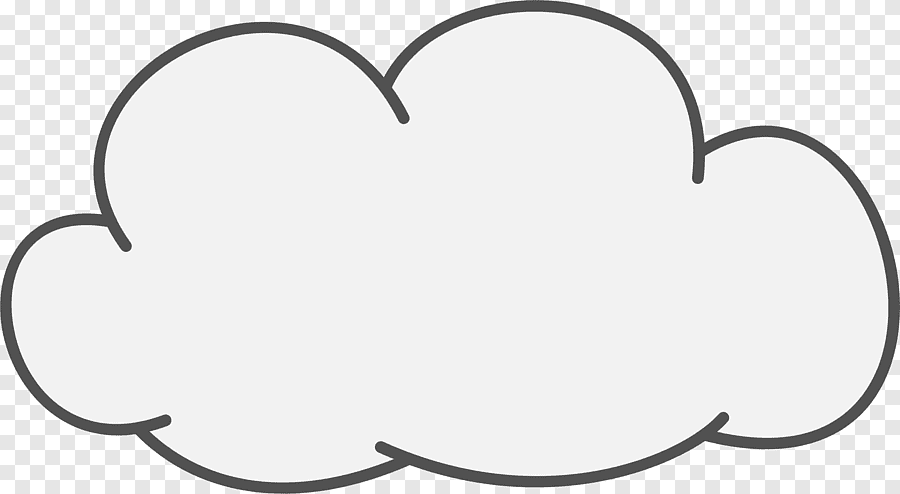
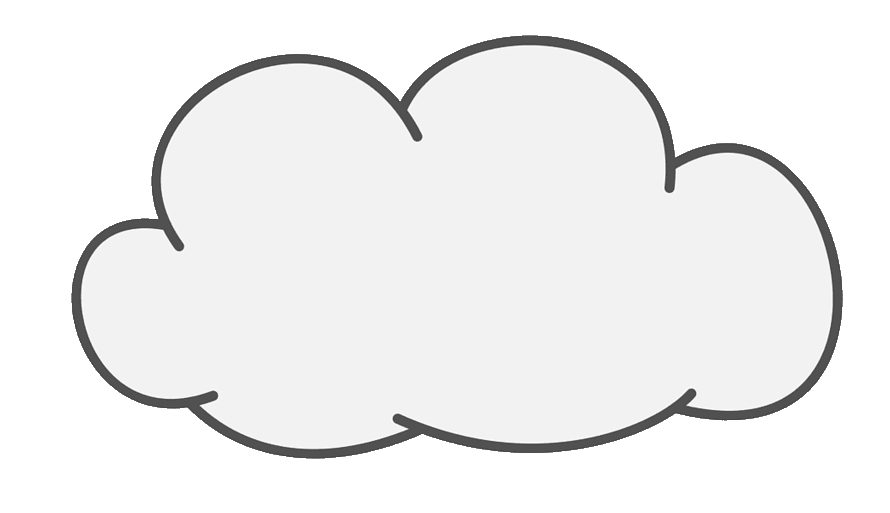
mquery less than 650 and restyling of header

Changed region(s): [[0.0, 0.0, 1.0, 1.0]]

diff --git a/src/components/header.js b/src/components/header.js
@@ -5,6 +5,9 @@ import styled from "styled-components";
 import { motion } from "framer-motion";
 import { titleAnim, searchBarAnim } from "../animations";
 import BirdPicker from "./birdPicker";
+import Cloud from "../images/cloud.png";
+import Cloud2 from "../images/cloud2.png";
+import HoverImage from "react-hover-image";
 
 const Header = ({ dayornight }) => {
   const dispatch = useDispatch();
@@ -50,6 +53,9 @@ const Header = ({ dayornight }) => {
             }}
           >
             Search
+            <CloudContainer>
+              <img src={Cloud} />
+            </CloudContainer>
           </motion.button>
         </motion.form>
       </HeaderContainer>
@@ -79,6 +85,9 @@ const HeaderContainer = styled(motion.div)`
     width: 5rem;
     border-top-right-radius: 0.8rem;
     border-bottom-right-radius: 0.8rem;
+    &:hover {
+      cursor: pointer;
+    }
     &:focus {
       outline: none;
     }
@@ -103,17 +112,36 @@ const HeaderContainer = styled(motion.div)`
       display: flex;
       flex-direction: column;
       align-items: center;
+      z-index: 5;
+      position: relative;
     }
     button {
       display: block;
       border-radius: 0.8rem;
-      margin: 0.5rem;
+      margin: 0.8rem;
+      letter-spacing: 0.15rem;
+      padding: 0.2rem;
+      margin-top: 1.7rem;
     }
     input {
       border-radius: 0.8rem;
       font-size: 0.7rem;
       text-align: center;
       width: 20rem;
+    }
+  }
+
+  @media screen and (max-width: 415px) {
+    input {
+      border-radius: 0.8rem;
+      font-size: 0.7rem;
+      text-align: center;
+      width: 70vw;
+    }
+
+    h1 {
+      font-size: 1.5rem;
+      margin: 1rem;
     }
   }
 `;
@@ -125,6 +153,51 @@ const TitleContainer = styled(motion.div)`
     .lastTitleWord {
       display: block;
     }
+  }
+
+  @media screen and (max-width: 500px) {
+    width: 20rem;
+  }
+
+  @media screen and (max-width: 500px) {
+    width: 15rem;
+  }
+`;
+
+const CloudContainer = styled(motion.div)`
+  display: none;
+
+  @media screen and (max-width: 650px) {
+    display: block;
+    position: absolute;
+    z-index: -1;
+    top: 2.3rem;
+    left: 6rem;
+    img {
+      width: 9rem;
+      height: 4rem;
+    }
+  }
+
+  @media screen and (max-width: 415px) {
+    top: 2.5rem;
+    left: 25%;
+  }
+
+  @media screen and (max-width: 375px) {
+    left: 22%;
+  }
+
+  @media screen and (max-width: 328px) {
+    left: 20%;
+  }
+
+  @media screen and (max-width: 290px) {
+    left: 15%;
+  }
+
+  @media screen and (max-width: 262px) {
+    left: 12%;
   }
 `;
 

diff --git a/src/components/weather.js b/src/components/weather.js
@@ -14,9 +14,12 @@ const Weather = ({
 }) => {
   return (
     <WeatherContainer>
-      <h2>
-        The current weather in {location} - {country}, is {weather} &#176;C.
-      </h2>
+      <div className="mainWeatherInfo">
+        <h2>
+          The current weather in {location} - {country}, is{" "}
+          <span className="degreesCelcius">{weather}&#176;C</span>.
+        </h2>
+      </div>
       <Condition>
         <div className="conditionContainer">
           <div className="conditionHolder">
@@ -60,6 +63,16 @@ const Condition = styled(motion.div)`
       display: flex;
     }
   }
+
+  @media screen and (max-width: 415px) {
+    img {
+      height: 4rem;
+      width: auto;
+    }
+    .conditionHolder {
+      padding: 0;
+    }
+  }
 `;
 
 const WeatherContainer = styled(motion.div)`
@@ -68,9 +81,30 @@ const WeatherContainer = styled(motion.div)`
   align-items: center;
   justify-content: center;
 
+  .degreesCelcius {
+    text-decoration: underline;
+    text-decoration-color: #ff5252;
+    text-underline-offset: 0.2rem;
+    /*  border-bottom: 3px solid #ff5252;
+    padding-bottom: 1px; */
+  }
+
   @media screen and (max-width: 900px) {
     h2 {
       font-size: 1.2rem;
+    }
+  }
+
+  @media screen and (max-width: 650px) {
+    width: 90vw;
+    h2 {
+      font-size: 1rem;
+    }
+  }
+
+  @media screen and (max-width: 415px) {
+    .mainWeatherInfo {
+      text-align: center;
     }
   }
 `;

diff --git a/src/components/birdPicker.js b/src/components/birdPicker.js
@@ -88,6 +88,54 @@ const BirdContainer = styled(motion.div)`
       height: 60px;
     }
   }
+
+  @media screen and (max-width: 650px) {
+    .butterflies-pic {
+      top: 5rem;
+      right: 4rem;
+      width: 35px;
+      height: 35px;
+    }
+
+    .owl-pic {
+      top: 4rem;
+      right: 3.5rem;
+      width: 60px;
+      height: 60px;
+    }
+  }
+
+  @media screen and (max-width: 500px) {
+    .butterflies-pic {
+      top: 8rem;
+      right: -1rem;
+      width: 35px;
+      height: 35px;
+    }
+
+    .owl-pic {
+      top: 7rem;
+      right: -2rem;
+      width: 60px;
+      height: 60px;
+    }
+  }
+
+  @media screen and (max-width: 415px) {
+    .butterflies-pic {
+      top: 5rem;
+      right: 1rem;
+      width: 30px;
+      height: 30px;
+    }
+
+    .owl-pic {
+      top: 3.9rem;
+      right: 0rem;
+      width: 60px;
+      height: 60px;
+    }
+  }
 `;
 
 export default BirdPicker;

diff --git a/src/components/forecast.js b/src/components/forecast.js
@@ -8,7 +8,10 @@ const Forecast = ({ sunrise, sunset, date, weather, condition }) => {
     <motion.div>
       <ForeCastItem>
         <p>{date}</p>
-        <div> Temperature: {weather}&#176;C.</div>
+        <div>
+          {" "}
+          Temperature: <span className="degreesCelcius">{weather}&#176;C.</span>
+        </div>
         <SunRiseAndSet>
           <img src={sunriseImage} alt="sunrise time" />
           {sunrise}
@@ -51,6 +54,10 @@ const ForeCastItem = styled(motion.div)`
   box-shadow: -10px 15px 18px #000000;
   height: 10rem;
   width: 15rem;
+  .degreesCelcius {
+    color: #ff5252;
+  }
+
   h3 {
     margin: 0;
   }

diff --git a/src/components/windy.js b/src/components/windy.js
@@ -70,6 +70,27 @@ margin-right: 1rem;
     bottom: 0.6rem;
     left: 2.3rem;
   }
+
+  @media screen and (max-width: 415px) {
+    margin-right: 0rem;
+
+    .wt1 {
+    height: 3rem;
+    width: 3rem;
+    position: absolute;
+    top: 0.1rem;
+    
+    z-index: 1;
+    left: 1.26rem;
+  }
+    .wt2 {
+    height: 2.5rem;
+    width: 1rem;
+    position: absolute;
+    bottom: 1.2rem;
+    left: 2.3rem;
+  }
+  }
 `;
 
 export default Windy;

diff --git a/src/pages/Home.js b/src/pages/Home.js
@@ -143,6 +143,7 @@ const HomeContainer = styled(motion.div)`
 
   @media screen and (max-width: 650px) {
     width: 90vw;
+    margin-top: 1rem;
   }
 `;
 
